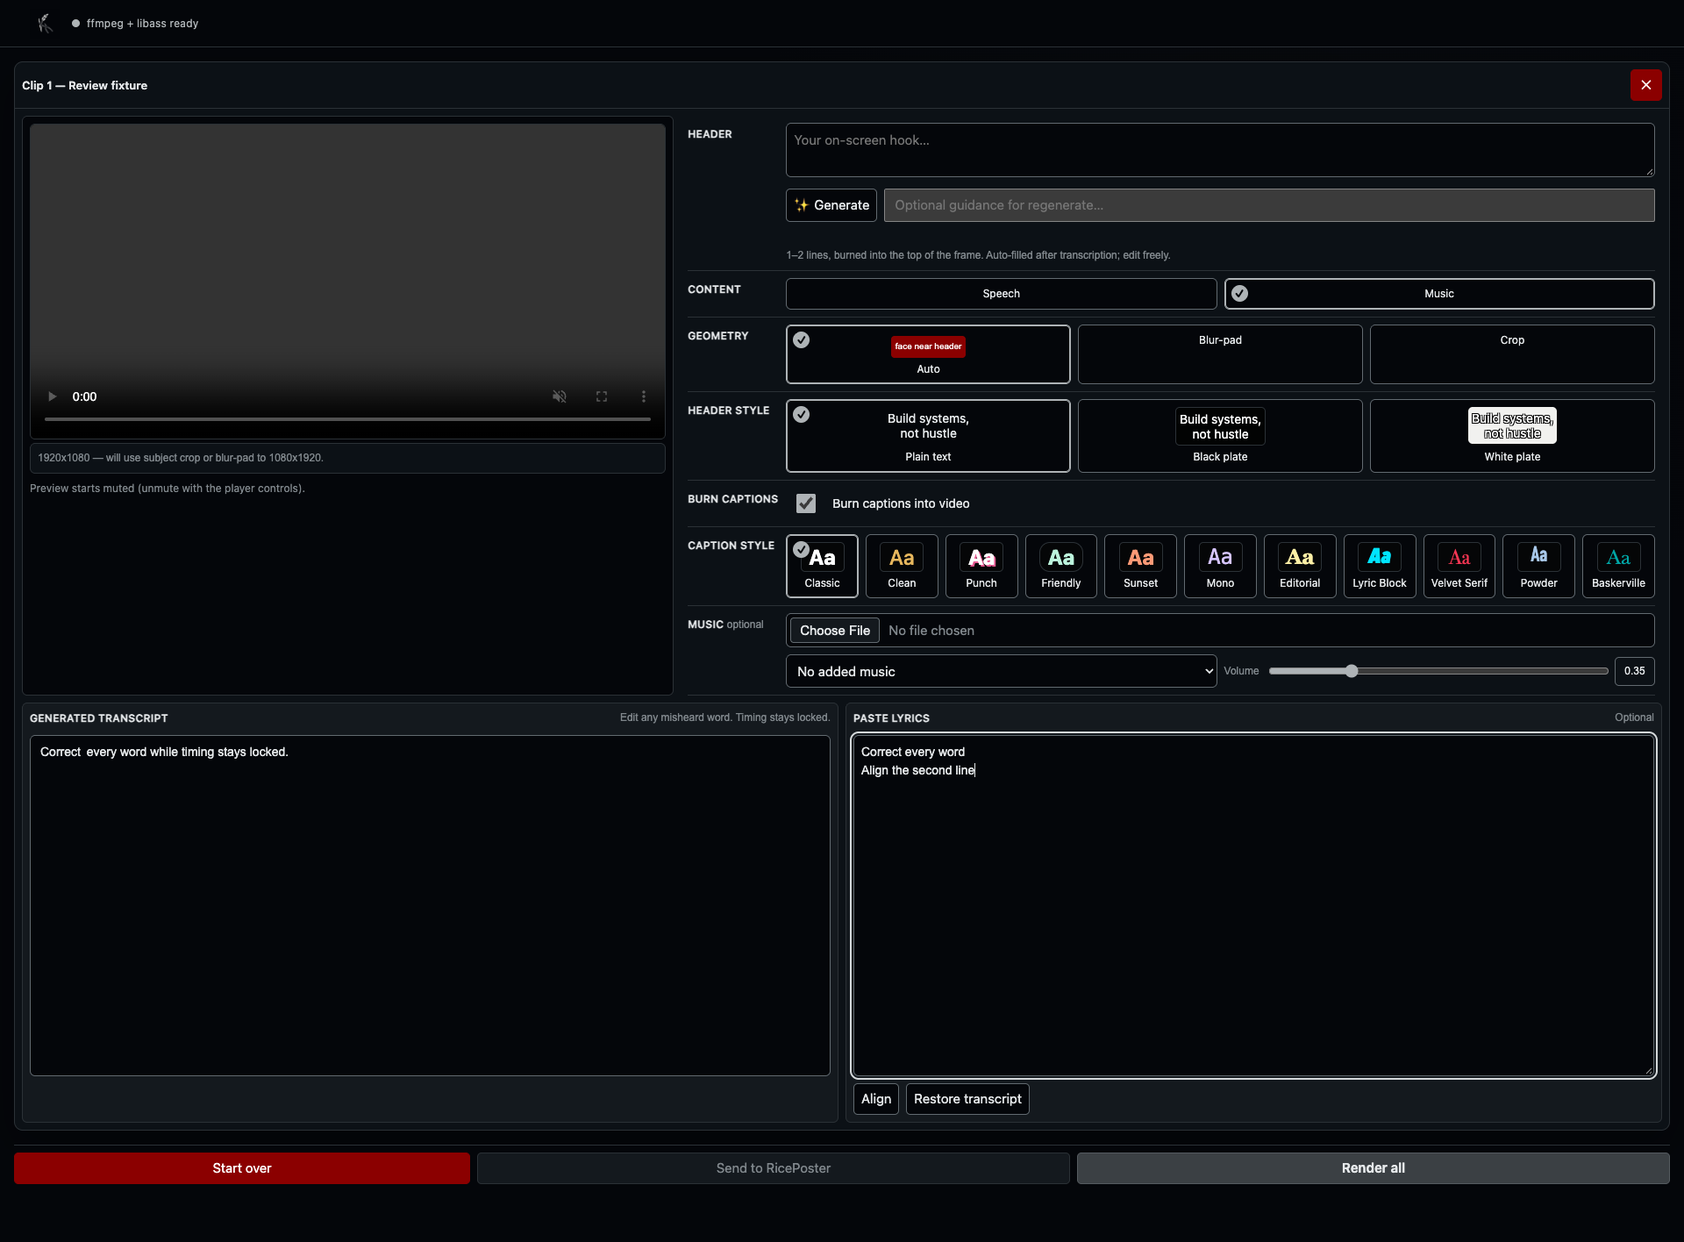
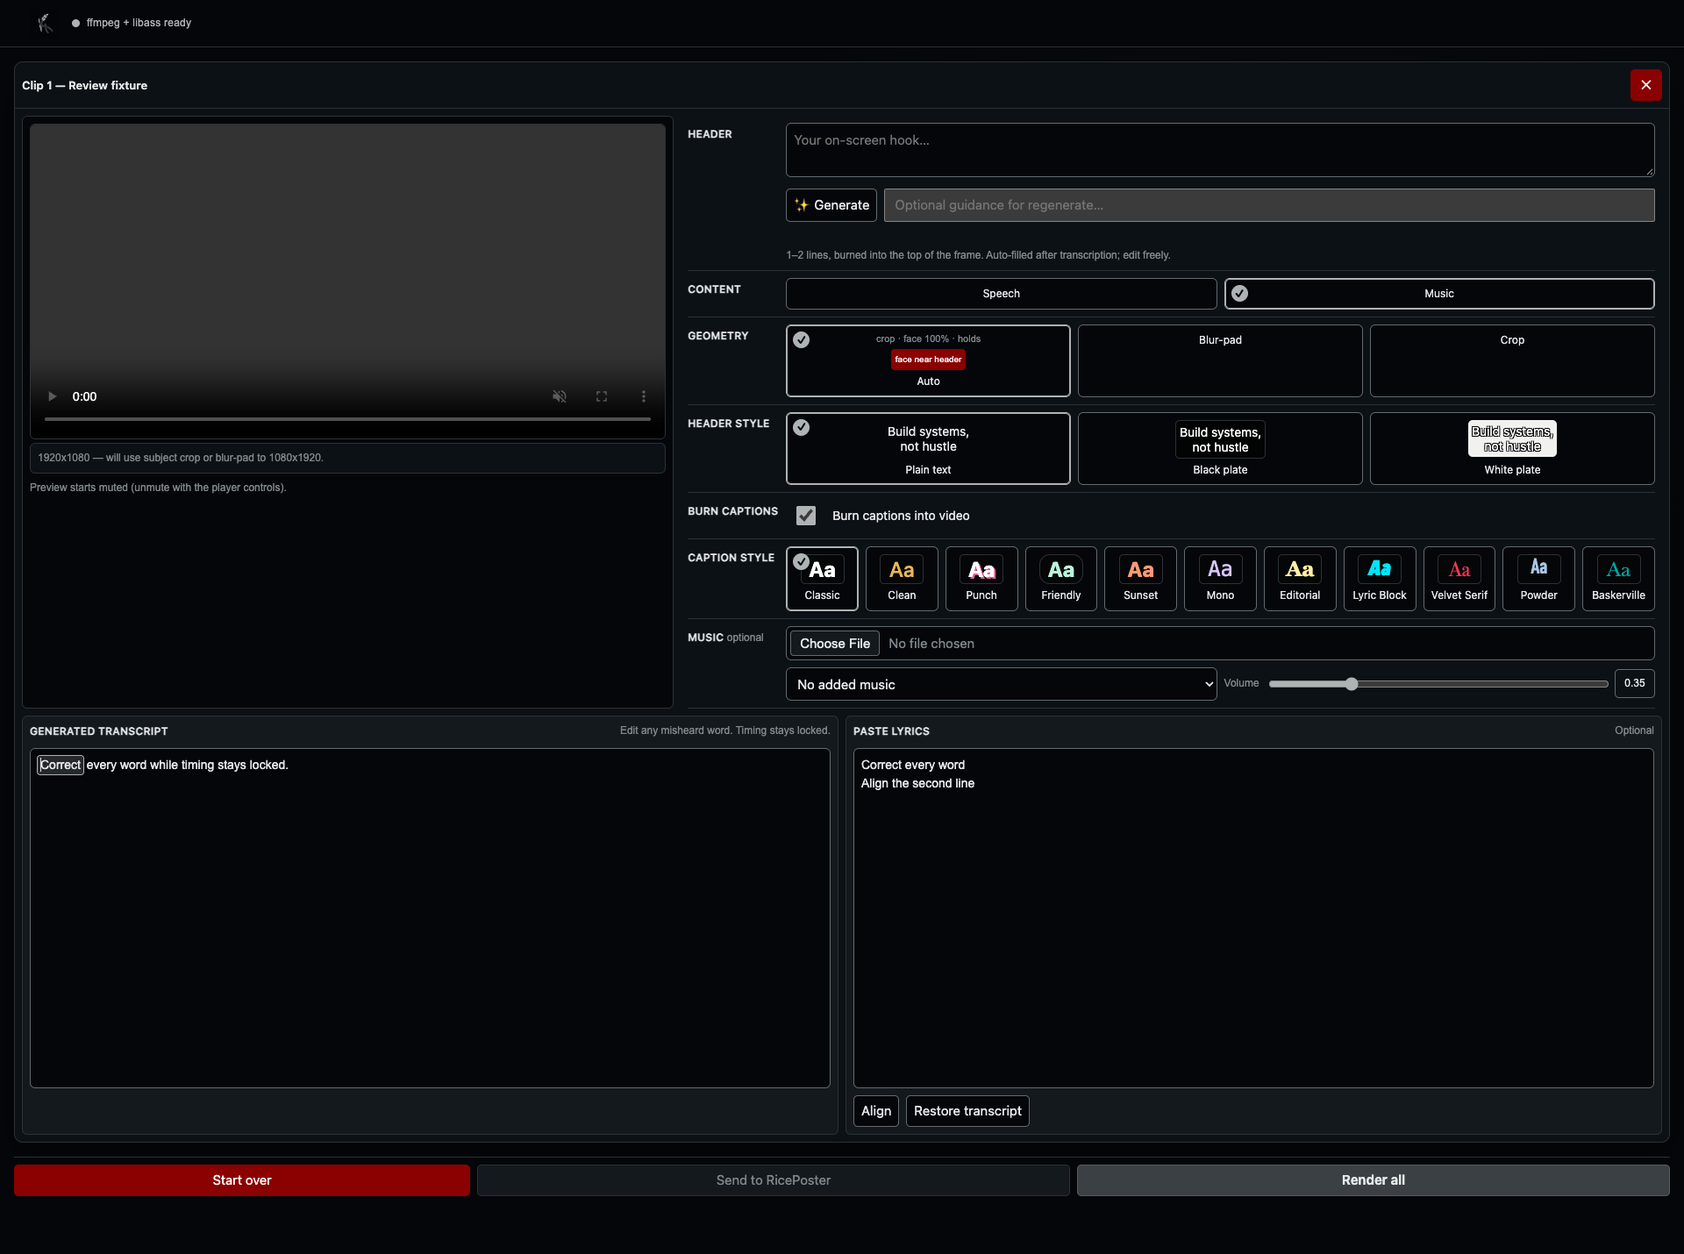
Repair editor review findings with browser regressions

diff --git a/web/style.css b/web/style.css
@@ -24,12 +24,14 @@ button, textarea, select, input { font: inherit; }
 .topbar { position: sticky; top: 0; z-index: 20; display: flex; align-items: center; gap: 14px; min-height: 54px; padding: 8px clamp(16px, 2.2vw, 34px); border-bottom: 1px solid var(--hairline); background: var(--backdrop); }
 .app-identity { display: flex; margin: 0; }
 .app-identity img { display: block; width: 34px; height: 34px; }
-.badge { display: inline-flex; align-items: center; gap: 8px; min-height: 28px; color: var(--muted); font-size: 12px; letter-spacing: 0.02em; }
+.badge { display: inline-flex; align-items: center; gap: 8px; min-height: 28px; color: var(--muted); font-family: Arial, sans-serif; font-size: 12px; letter-spacing: 0.02em; }
 .badge::before { width: 9px; height: 9px; border-radius: 50%; background: currentcolor; content: ""; }
 .badge.ok { color: var(--rice); }
 .badge.bad { color: var(--danger); }
 
-main { width: 100%; margin: 0 auto; padding: 16px; }
+main { width: min(100%, 1540px); margin: 0 auto; padding: clamp(12px, 1.5vw, 24px); }
+body:has(#batch-panel:not(.hidden)) { --editor-space: 8px; }
+body:has(#batch-panel:not(.hidden)) main { width: 100%; padding: calc(var(--editor-space) * 2); }
 .panel { margin-bottom: 16px; border: 1px solid var(--hairline); border-radius: 10px; background: linear-gradient(145deg, rgb(12 17 22 / 96%), rgb(4 6 10 / 96%)); box-shadow: var(--shadow); }
 #upload-panel { padding: clamp(16px, 2vw, 28px); }
 .dropzone { display: flex; min-height: 250px; padding: 40px 24px; align-items: center; justify-content: center; flex-direction: column; gap: 8px; border: 1px dashed var(--control-line); border-radius: 8px; background: rgb(4 6 10 / 48%); cursor: pointer; text-align: center; }
@@ -40,7 +42,7 @@ main { width: 100%; margin: 0 auto; padding: 16px; }
 .upload-icon { display: grid; width: 42px; height: 42px; margin-bottom: 4px; place-items: center; border: 1px solid var(--hairline); border-radius: 50%; color: var(--rice); font-size: 25px; }
 .upload-tools { display: flex; flex-wrap: wrap; gap: 24px; margin-top: 16px; padding-top: 16px; align-items: flex-start; justify-content: space-between; border-top: 1px solid var(--hairline); }
 .cache-tools { flex: 1 1 320px; min-width: 260px; }
-#batch-panel { --editor-space: 8px; border: 0; background: transparent; box-shadow: none; }
+#batch-panel { border: 0; background: transparent; box-shadow: none; }
 
 .clip-card { margin-bottom: calc(var(--editor-space) * 2); border: 1px solid var(--hairline); border-radius: 10px; background: var(--midground); box-shadow: var(--shadow); }
 .clip-head { display: flex; min-height: 48px; padding: var(--editor-space); align-items: center; gap: var(--editor-space); border-bottom: 1px solid var(--hairline); }
@@ -75,7 +77,8 @@ input[type="file"]::file-selector-button { margin-right: 10px; border: 1px solid
 .geometry-choice-grid { grid-template-columns: repeat(3, minmax(0, 1fr)); }
 .geometry-choice-grid .choice-card { min-height: 44px; }
 .geometry-summary, .lyrics-badge { color: var(--muted); font-family: Arial, sans-serif; font-size: 11px; line-height: 1.3; }
-.geometry-warning { padding: calc(var(--editor-space) * 0.5); border: 1px solid #8b0000; border-radius: 4px; background: #8b0000; color: #fff; font-family: Arial, sans-serif; font-size: 10px; }
+.geometry-warning { padding: calc(var(--editor-space) * 0.5); border: 1px solid var(--danger); border-radius: 4px; color: var(--danger); font-family: Arial, sans-serif; font-size: 10px; }
+.geometry-warning.header-warning { border-color: #8b0000; background: #8b0000; color: #fff; }
 .lyrics-badge-warn { color: var(--danger); }
 .caption-choice-grid { grid-template-columns: repeat(auto-fit, minmax(76px, 1fr)); }
 .choice-card { position: relative; display: flex; min-width: 0; min-height: 64px; padding: var(--editor-space); align-items: center; justify-content: space-between; flex-direction: column; gap: calc(var(--editor-space) * 0.5); border: 1px solid var(--control-line); border-radius: 6px; background: var(--backdrop); color: var(--text); cursor: pointer; text-align: center; }
@@ -113,6 +116,7 @@ input[type="file"]::file-selector-button { margin-right: 10px; border: 1px solid
 .text-heading .hint { margin: 0; }
 .text-heading .field-label { padding: 0; }
 .transcript, .lyrics-input { display: block; width: 100%; height: clamp(280px, 36vh, 440px); min-height: 280px; max-height: 440px; overflow: auto; padding: var(--editor-space); border: 1px solid var(--control-line); border-radius: 6px; background: var(--backdrop); color: var(--text); font: 14px/1.5 Arial, sans-serif; letter-spacing: normal; }
+.lyrics-input { resize: none; }
 .transcript .word { display: inline-block; padding: 0 3px; border-radius: 3px; outline: none; }
 .transcript .word:focus { background: rgb(174 179 182 / 20%); outline: 1px solid var(--rice); }
 .lyrics { grid-column: 6 / -1; grid-row: 2; }
@@ -135,16 +139,16 @@ button:hover, .primary:hover { border-color: var(--rice); }
 .primary { border-color: #555b60; background: var(--charcoal); font-weight: 650; }
 button:disabled, .primary:disabled { border-color: var(--hairline); background: var(--interior); color: var(--muted); cursor: not-allowed; }
 button:focus-visible, .primary:focus-visible, textarea:focus-visible, select:focus-visible, input:focus-visible { outline: 2px solid var(--focus); outline-offset: 2px; }
-.status { min-height: 18px; margin: 8px 0 0; color: var(--muted); font-size: 12px; }
+.status { min-height: 18px; margin: 8px 0 0; color: var(--muted); font-family: Arial, sans-serif; font-size: 12px; }
 .status.error { color: var(--danger); }
 .result-actions { display: flex; align-items: center; gap: 12px; }
 .cache-actions { display: flex; align-items: center; justify-content: space-between; gap: 12px; }
 .cache-actions button { min-height: 36px; padding: 6px 12px; color: var(--muted); }
 
 @media (max-width: 1120px) { .music-controls { grid-template-columns: 1fr; } }
-@media (max-width: 880px) { main { padding: 8px; } .review-grid { display: flex; flex-direction: column; } .preview-col, .edit-col, .transcript-panel, .lyrics { width: 100%; } .edit-col { padding: 0 var(--editor-space); } .source-video { max-height: 360px; } }
+@media (max-width: 880px) { body:has(#batch-panel:not(.hidden)) main { padding: var(--editor-space); } .review-grid { display: flex; flex-direction: column; } .preview-col, .edit-col, .transcript-panel, .lyrics { width: 100%; } .edit-col { padding: 0 var(--editor-space); } .source-video { max-height: 360px; } }
 @media (max-width: 620px) { .topbar { padding-inline: 12px; } .field-row { grid-template-columns: 1fr; gap: calc(var(--editor-space) * 0.5); } .field > label, .field-label, .field legend { padding-top: 0; } .field legend { float: none; width: auto; } .field legend + * { margin-left: 0; margin-top: calc(var(--editor-space) * 0.5); } .header-choice-grid { grid-template-columns: repeat(3, minmax(0, 1fr)); } .caption-choice-grid { grid-template-columns: repeat(2, minmax(0, 1fr)); } .batch-actions { position: static; grid-template-columns: 1fr; } .cache-actions { align-items: stretch; flex-direction: column; } .dropzone { min-height: 200px; padding-inline: 16px; } }
-@media (pointer: coarse) { #batch-panel button, #batch-panel select, #batch-panel input[type="file"], #batch-panel .choice-card { min-height: 44px; } #batch-panel .clip-remove { width: 44px; } }
+@media (pointer: coarse) { #batch-panel button, #batch-panel select, #batch-panel input[type="file"], #batch-panel .choice-card, #batch-panel .switch-label, #batch-panel .vol { min-height: 44px; } #batch-panel .clip-remove { width: 44px; } }
 @media (prefers-reduced-motion: reduce) { *, *::before, *::after { scroll-behavior: auto !important; transition: none !important; } }
 
 /* RiceSearcher intake control on the upload panel (paired with cache tools in

diff --git a/docs/design/editor-layout-reference.html b/docs/design/editor-layout-reference.html
@@ -89,7 +89,6 @@
       #rc-editor-reference .transcript-panel { order: 3; }
       #rc-editor-reference .compare-panel { order: 4; }
       #rc-editor-reference .video { height: 220px !important; }
-      #rc-editor-reference .text-box { height: 220px !important; }
       #rc-editor-reference .actions { grid-template-columns: 1fr; }
     }
     @media (pointer: coarse) {

diff --git a/web/app.js b/web/app.js
@@ -337,6 +337,7 @@ function applyGeometry(clip, state) {
     content === "music" ? _musicSummary(plan) : _speechSummary(plan, pct);
 
   const warning = plan ? plan.warning : null;
+  warnEl.classList.toggle("header-warning", warning === "header_zone");
   if (warning === "header_zone") {
     warnEl.textContent = "face near header";
     warnEl.hidden = false;

diff --git a/scripts/check_editor_browser.py b/scripts/check_editor_browser.py
@@ -99,10 +99,8 @@ CHECKS = r"""
     const item = { localId: 1, ord: 1, name: "Review fixture", status: "ready" };
     buildCard(item);
     item.geoEl.textContent = "1920x1080 — will use subject crop or blur-pad to 1080x1920.";
-    item.geometryEl.hidden = false;
-    const warning = item.geometryEl.querySelector(".geometry-warning");
-    warning.hidden = false;
-    warning.textContent = "face near header";
+    const plan = { decision: "crop", reason: "header_zone", face_rate: 1, safe_rate: 1, warning: "header_zone" };
+    applyGeometry(item, { width: 1920, height: 1080, crop_plan: plan, music_plan: plan });
     item.sourceVideoEl.style.aspectRatio = "9 / 16";
     item.sourceVideoEl.style.height = "360px";
     item.transcriptEl.innerHTML = '<span class="word" contenteditable="true" tabindex="0">Correct</span> every word while timing stays locked.';
@@ -139,6 +137,9 @@ CHECKS = r"""
   check(unit === 8, "editor spacing token");
   check(near(card.x, wide ? unit * 2 : unit), "page inset");
   check(near(card.right, innerWidth - (wide ? unit * 2 : unit)), "right page inset");
+  document.body.style.setProperty("--editor-space", "10px");
+  check(near(rect(clip.el).x, wide ? 20 : 10), "page inset follows spacing token");
+  document.body.style.removeProperty("--editor-space");
   check(document.documentElement.scrollWidth <= innerWidth, "horizontal document overflow");
   check(preview.x >= grid.x && settings.right <= grid.right, "clip inset");
   check(card.right <= innerWidth - (wide ? unit * 2 : unit) + 1, "clip exceeds page");
@@ -172,24 +173,27 @@ CHECKS = r"""
   }
   check(css(clip.transcriptEl).fontFamily === "Arial, sans-serif", "Arial transcript");
   check(css(clip.transcriptEl).fontSize === "14px" && css(clip.transcriptEl).lineHeight === "21px", "reading scale");
+  check(css(clip.lyricsInputEl).resize === "none", "lyrics cannot resize away from transcript");
   check(transcript.height >= 280 && transcript.height <= 440, "transcript height");
   if (mode === "music") check(lyrics.height >= 280 && lyrics.height <= 440, "lyric height");
-  for (const selector of [".geo-note", ".geometry-summary", ".lyrics-badge", ".hint"]) {
+  for (const selector of [".geo-note", ".geometry-summary", ".lyrics-badge", ".hint", ".preview-status", ".clip-status"]) {
     check(css(clip.el.querySelector(selector)).fontFamily === "Arial, sans-serif", "Arial operational " + selector);
   }
+  check(css(document.getElementById("capbadge")).fontFamily === "Arial, sans-serif", "Arial tool status");
   check(css(clip.el.querySelector(".sample-mono")).fontFamily.includes("monospace"), "Mono sample font");
   for (const el of [clip.el.querySelector(".geometry-warning"), clip.el.querySelector(".clip-remove"), document.getElementById("restart-btn")]) {
     check(css(el).backgroundColor === "rgb(139, 0, 0)", "dark-red fill");
     check(css(el).color === "rgb(255, 255, 255)", "white control text");
   }
-  for (const selector of [".clip-remove", ".choice-card", ".header-generate", ".lyrics-align", ".lyrics-restore"]) {
+  const captionPlan = { decision: "crop", reason: "caption_zone", face_rate: 1, safe_rate: 1, warning: "caption_zone" };
+  applyGeometry(clip, { width: 1920, height: 1080, crop_plan: captionPlan, music_plan: captionPlan });
+  check(css(clip.geometryEl.querySelector(".geometry-warning")).backgroundColor !== "rgb(139, 0, 0)", "caption warning keeps its existing treatment");
+  const headerPlan = { ...captionPlan, warning: "header_zone" };
+  applyGeometry(clip, { width: 1920, height: 1080, crop_plan: headerPlan, music_plan: headerPlan });
+  for (const selector of [".clip-remove", ".choice-card", ".header-generate", ".lyrics-align", ".lyrics-restore", ".switch-label", ".vol"]) {
     const el = clip.el.querySelector(selector);
     if (el && el.getClientRects().length) check(rect(el).height >= (matchMedia("(pointer: coarse)").matches ? 44 : 36), "target size " + selector);
   }
-  const focusTarget = mode === "music" ? clip.lyricsInputEl : clip.el.querySelector(".clip-remove");
-  focusTarget.focus();
-  check(document.activeElement === focusTarget, "keyboard focus reaches control");
-  check(css(focusTarget).outlineStyle !== "none" && Number.parseFloat(css(focusTarget).outlineWidth) >= 2, "visible focus ring");
   window.scrollTo(0, document.documentElement.scrollHeight);
   const paneBottom = mode === "music" ? rect(clip.lyricsEl).bottom : rect(clip.transcriptEl).bottom;
   check(paneBottom <= rect(document.querySelector(".batch-actions")).y + 1, "action bar clears editor at page end");
@@ -197,6 +201,66 @@ CHECKS = r"""
   return { issues, settings: settingsDocument, preview, transcriptPanel, lyricsPanel, action, scrollWidth: document.documentElement.scrollWidth, width: innerWidth, mode };
 })()
 """
+
+
+def tab_reachability(devtools, mode, *, negative_control=False):
+    """Walk the real Tab sequence and check focus rings on representative controls."""
+    if negative_control:
+        devtools.evaluate("window.__editorFixture.lyricsInputEl.tabIndex = -1")
+    devtools.evaluate("document.body.tabIndex = -1; document.body.focus()")
+    expected = {"remove", "word"}
+    if mode == "music":
+        expected.update({"lyrics", "align", "restore"})
+    seen = set()
+    for _ in range(60):
+        devtools.call(
+            "Input.dispatchKeyEvent",
+            {
+                "type": "keyDown",
+                "key": "Tab",
+                "code": "Tab",
+                "windowsVirtualKeyCode": 9,
+            },
+        )
+        devtools.call(
+            "Input.dispatchKeyEvent",
+            {"type": "keyUp", "key": "Tab", "code": "Tab", "windowsVirtualKeyCode": 9},
+        )
+        state = devtools.evaluate(
+            """(() => {
+              const c = window.__editorFixture, el = document.activeElement;
+              const targets = {
+                remove: c.el.querySelector(".clip-remove"),
+                word: c.transcriptEl.querySelector(".word"),
+                lyrics: c.lyricsInputEl,
+                align: c.lyricsAlignEl,
+                restore: c.lyricsRestoreEl,
+              };
+              const name = Object.keys(targets).find((key) => targets[key] === el) || "";
+              const style = getComputedStyle(el);
+              return { name, outline: style.outlineStyle, width: parseFloat(style.outlineWidth) };
+            })()"""
+        )
+        if state["name"]:
+            seen.add(state["name"])
+            if state["outline"] == "none" or state["width"] < 1:
+                raise AssertionError(
+                    f"Tab focused {state['name']} without a visible ring"
+                )
+        if expected <= seen:
+            break
+    if negative_control:
+        devtools.evaluate(
+            "window.__editorFixture.lyricsInputEl.removeAttribute('tabindex')"
+        )
+        if "lyrics" in seen:
+            raise AssertionError(
+                "keyboard probe accepted a lyric field removed from Tab order"
+            )
+    elif not expected <= seen:
+        raise AssertionError(
+            f"{mode}: Tab missed {sorted(expected - seen)}; reached {sorted(seen)}"
+        )
 
 
 def browser_binary():
@@ -260,6 +324,23 @@ def main():
                     time.sleep(0.1)
                 else:
                     raise RuntimeError("editor page did not load")
+                failures = []
+                devtools.call(
+                    "Emulation.setDeviceMetricsOverride",
+                    {
+                        "width": 1920,
+                        "height": 1080,
+                        "deviceScaleFactor": 1,
+                        "mobile": False,
+                    },
+                )
+                upload_width = devtools.evaluate(
+                    'document.querySelector("main").getBoundingClientRect().width'
+                )
+                if upload_width > 1540:
+                    failures.append(
+                        f"upload workspace exceeded prior 1540px cap: {upload_width}"
+                    )
                 results = []
                 for width, height in VIEWPORTS:
                     devtools.call(
@@ -273,29 +354,11 @@ def main():
                     )
                     by_mode = {}
                     for mode in ("music", "speech"):
-                        devtools.call(
-                            "Input.dispatchKeyEvent",
-                            {
-                                "type": "keyDown",
-                                "key": "Tab",
-                                "code": "Tab",
-                                "windowsVirtualKeyCode": 9,
-                            },
-                        )
-                        devtools.call(
-                            "Input.dispatchKeyEvent",
-                            {
-                                "type": "keyUp",
-                                "key": "Tab",
-                                "code": "Tab",
-                                "windowsVirtualKeyCode": 9,
-                            },
-                        )
                         result = devtools.evaluate(
                             CHECKS.replace("MODE", json.dumps(mode), 1)
                         )
                         if result["issues"]:
-                            raise AssertionError(
+                            failures.append(
                                 f"{width}x{height} {mode}: {result['issues']}"
                             )
                         by_mode[mode] = result
@@ -306,13 +369,16 @@ def main():
                         (OUTPUT / f"{mode}-{width}x{height}.png").write_bytes(
                             base64.b64decode(screenshot["data"])
                         )
+                        try:
+                            tab_reachability(devtools, mode)
+                        except AssertionError as error:
+                            failures.append(f"{width}x{height} {mode}: {error}")
                     music = by_mode["music"]["settings"]
                     speech = by_mode["speech"]["settings"]
                     if any(
-                        abs(music[key] - speech[key]) > 1
-                        for key in ("x", "y", "width", "height")
+                        abs(music[key] - speech[key]) > 1 for key in ("x", "y", "width")
                     ):
-                        raise AssertionError(
+                        failures.append(
                             f"{width}x{height}: settings shifted between modes: {music} vs {speech}"
                         )
                     results.extend(by_mode.values())
@@ -345,13 +411,25 @@ def main():
                             CHECKS.replace("MODE", json.dumps(mode), 1)
                         )
                         if result["issues"]:
-                            raise AssertionError(
+                            failures.append(
                                 f"coarse {width}x{height} {mode}: {result['issues']}"
                             )
+                devtools.evaluate(
+                    """(() => {
+                      const c = window.__editorFixture;
+                      const radio = c.contentEl.querySelector('[value="music"]');
+                      radio.checked = true;
+                      radio.dispatchEvent(new Event("change", { bubbles: true }));
+                    })()"""
+                )
+                try:
+                    tab_reachability(devtools, "music", negative_control=True)
+                except AssertionError as error:
+                    failures.append(f"keyboard negative control: {error}")
                 if devtools.errors:
-                    raise AssertionError(
-                        f"browser console/JS errors: {devtools.errors}"
-                    )
+                    failures.append(f"browser console/JS errors: {devtools.errors}")
+                if failures:
+                    raise AssertionError("\n".join(failures))
                 (OUTPUT / "results.json").write_text(
                     json.dumps(results, indent=2) + "\n"
                 )

diff --git a/tests/test_visual_docs.py b/tests/test_visual_docs.py
@@ -18,3 +18,9 @@ def test_roadmap_keeps_custom_preset_work_deferred():
     roadmap = _normalized_doc("ROADMAP.md")
     assert "eleven caption presets and three header treatments" in roadmap
     assert "persistent saved presets remain deferred" in roadmap
+
+
+def test_editor_reference_keeps_narrow_text_panes_above_ratified_minimum():
+    reference = _normalized_doc("docs/design/editor-layout-reference.html")
+    assert "height: clamp(280px, 36vh, 440px)" in reference
+    assert ".text-box { height: 220px !important; }" not in reference
